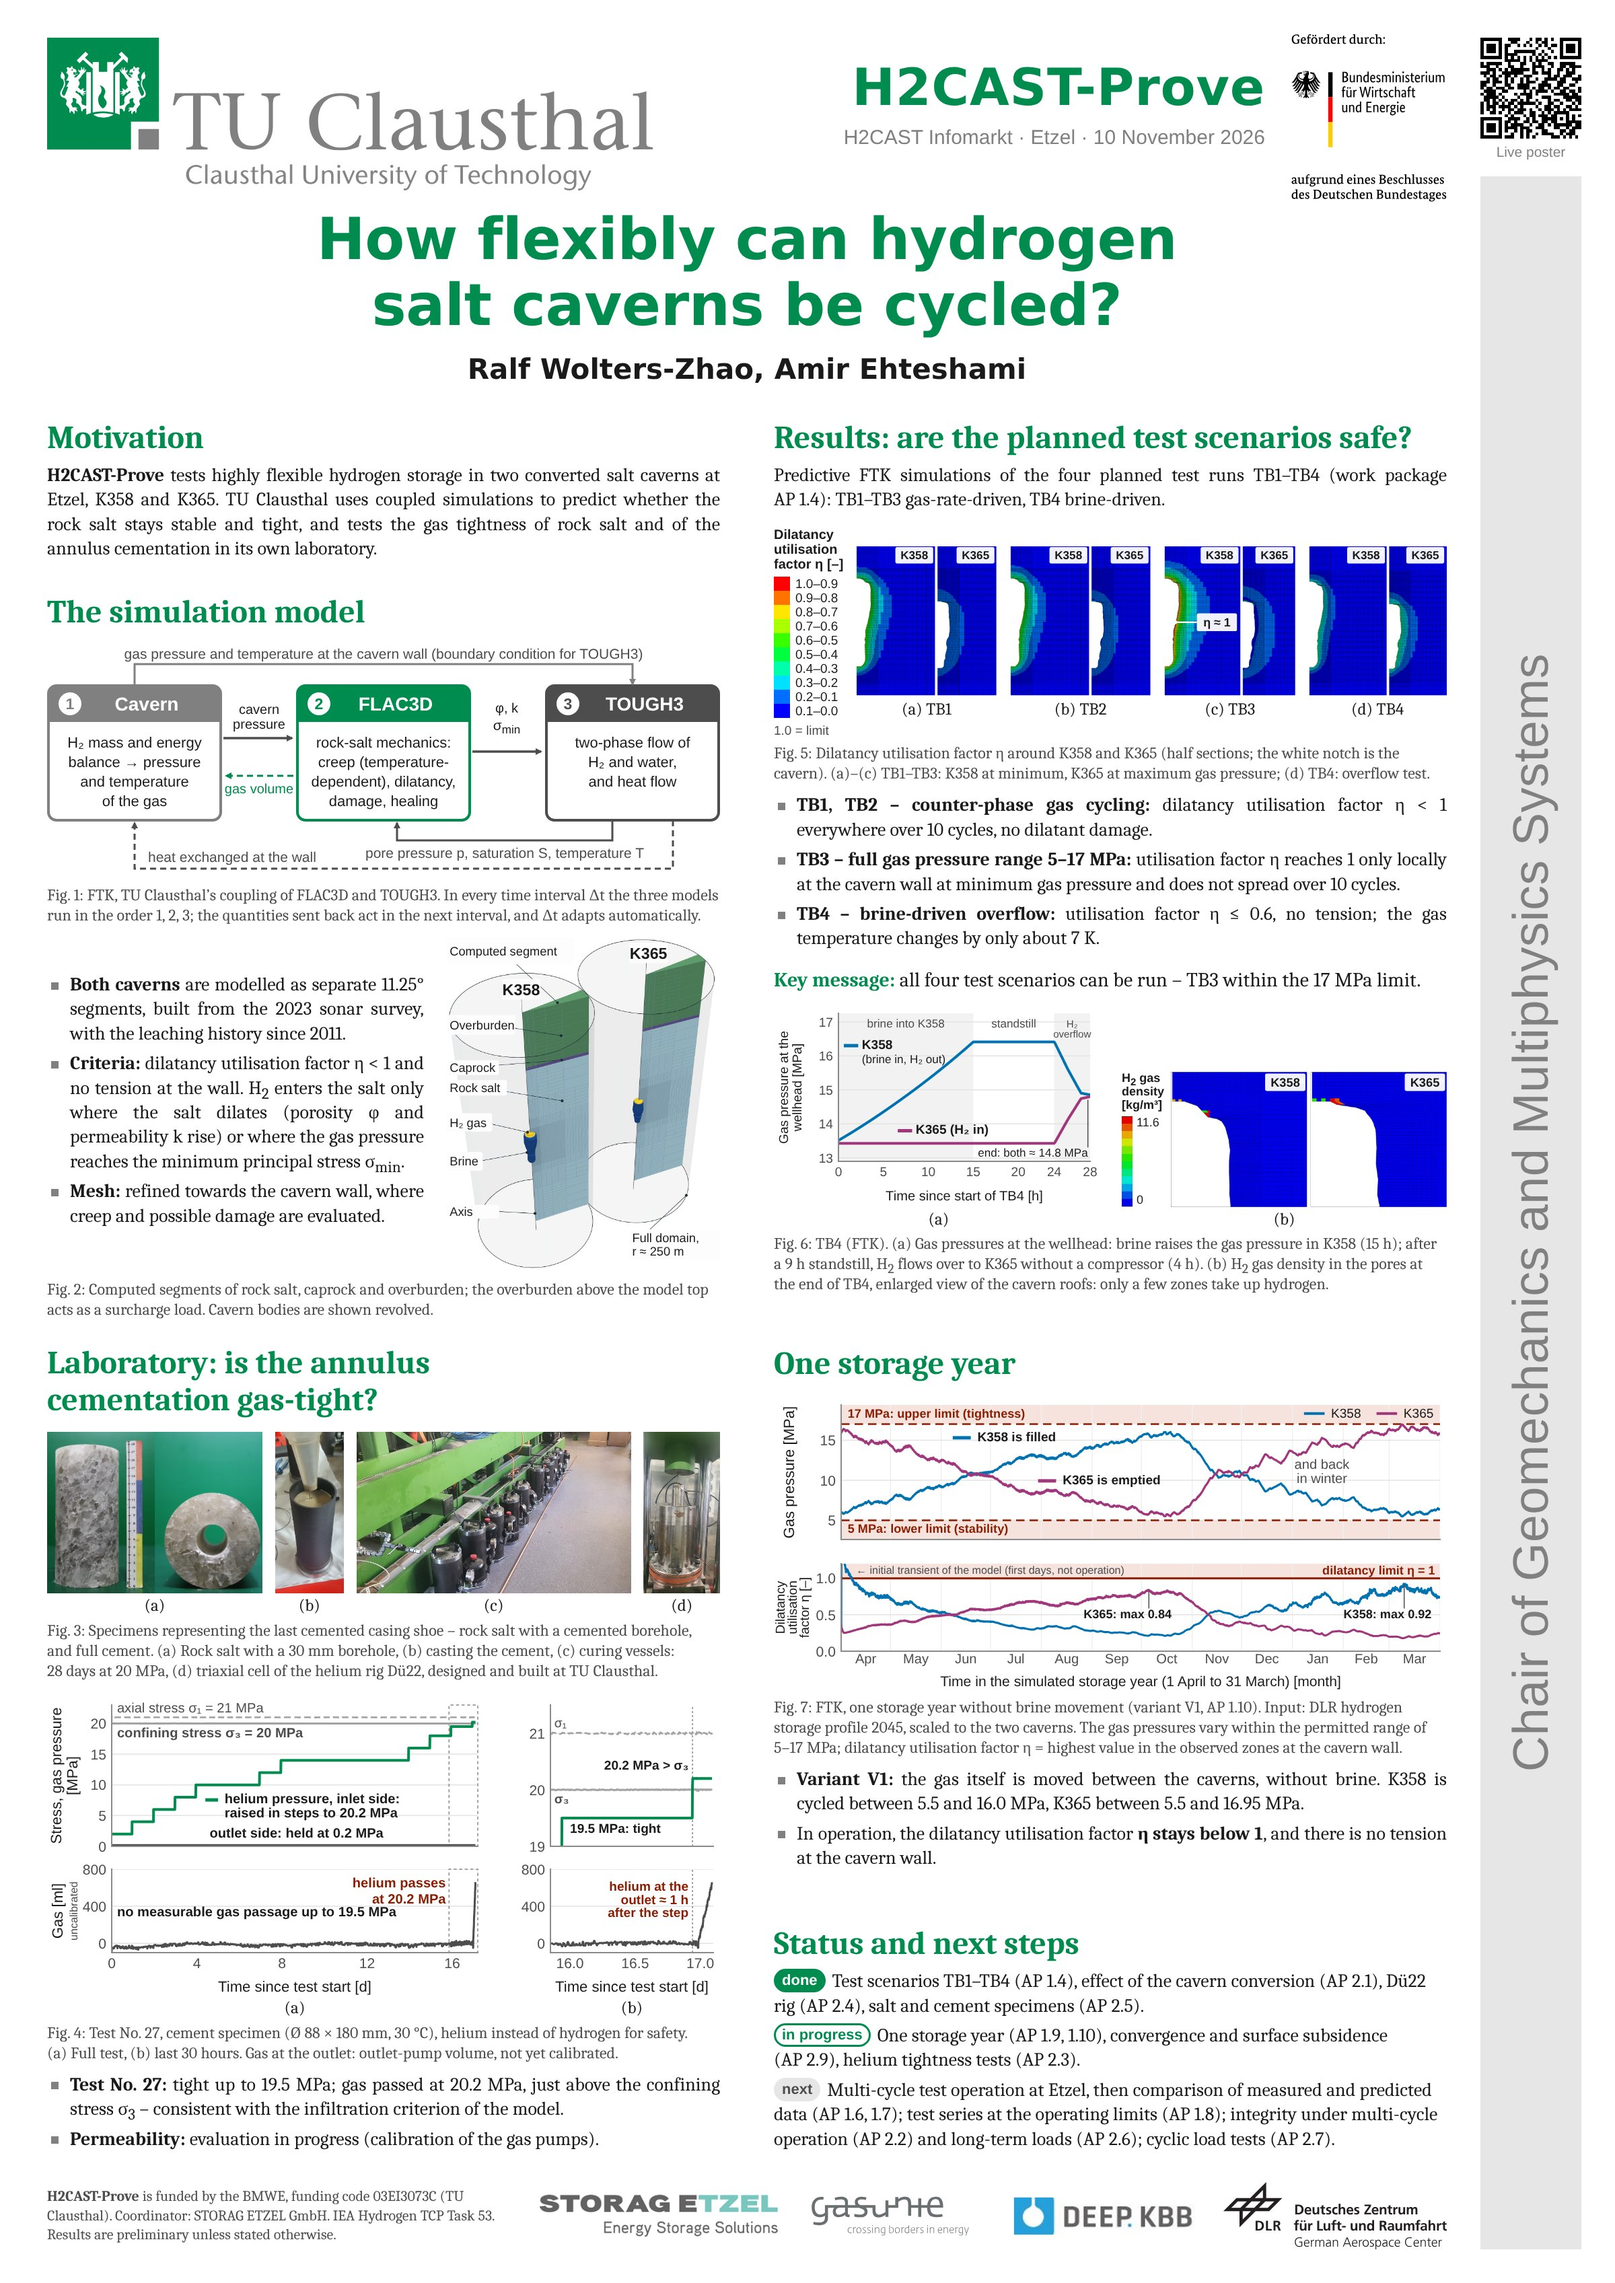
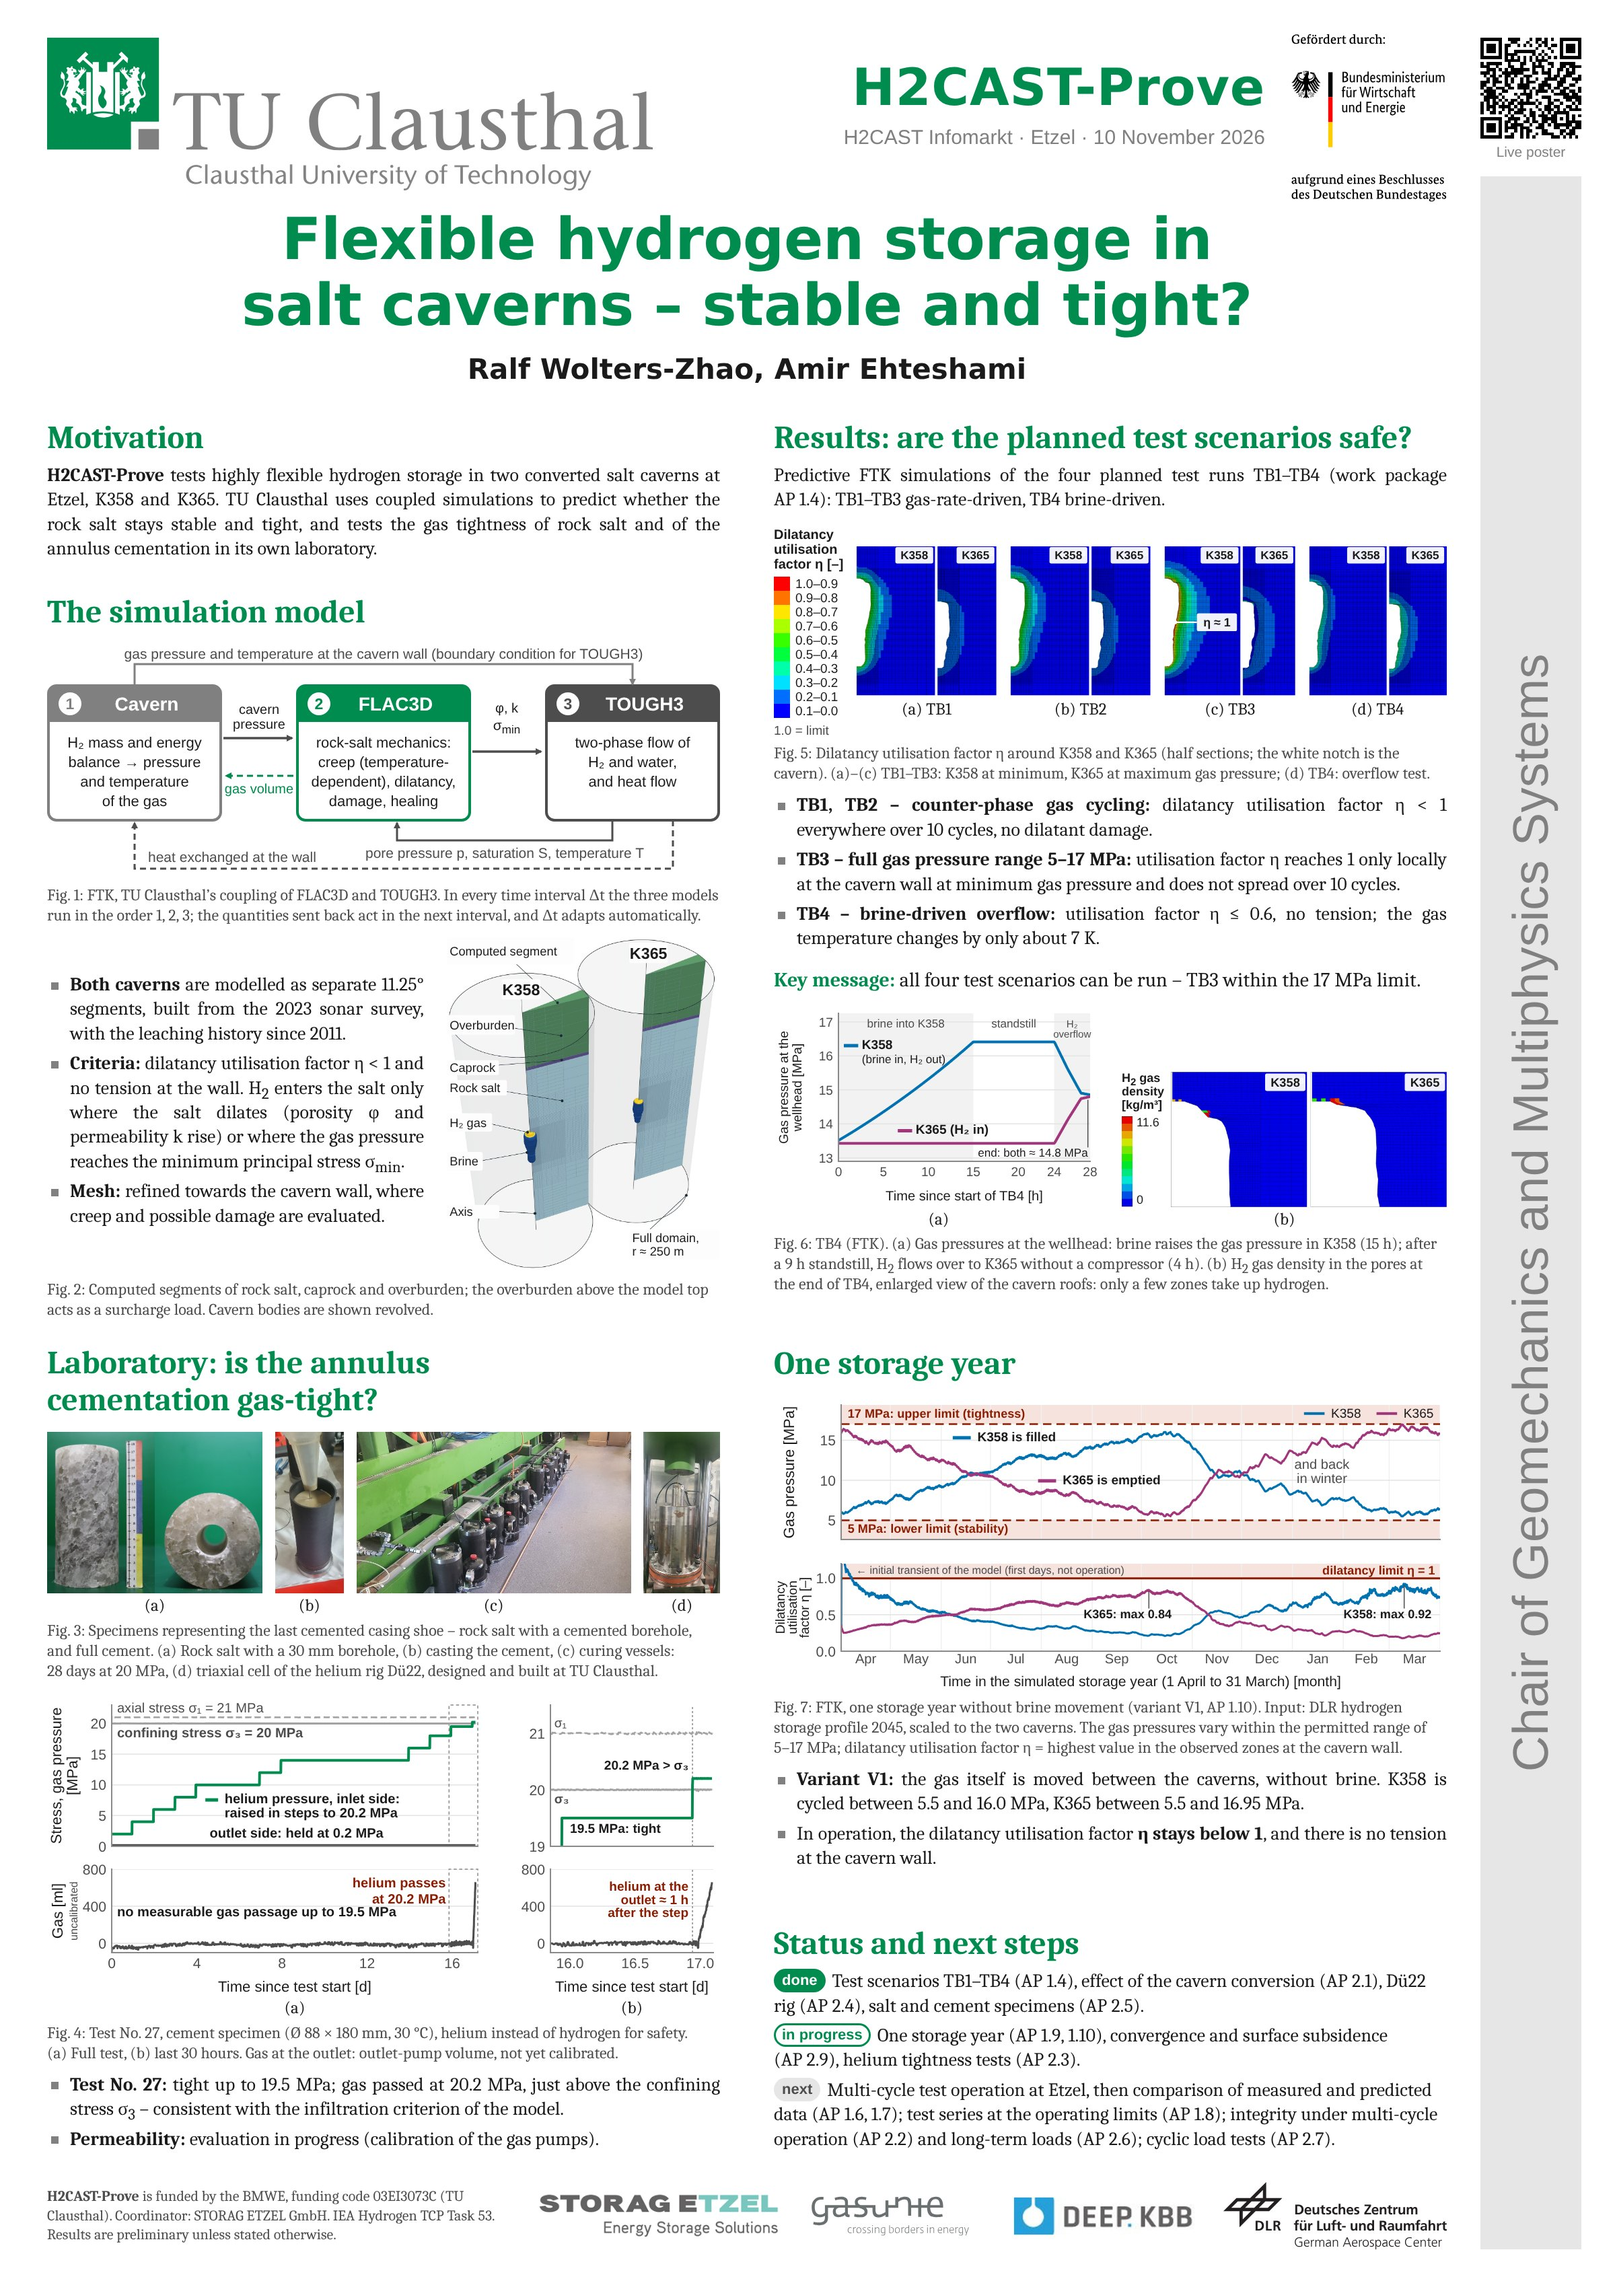
Poster title: "Flexible hydrogen storage in salt caverns – stable and tight?"
New main title chosen by the authors, replacing "How flexibly can hydrogen salt caverns
be cycled?" on the poster (with a non-breaking space so the dash stays with
"caverns"), in the page and PDF title, the poster alt text and both READMEs.

Claude-Session: https://claude.ai/code/session_01Ek1qUJkYEDE2LjHnQ7G2mW

Changed region(s): [[0.1562, 0.0937, 0.7812, 0.1562]]

diff --git a/poster/poster.html b/poster/poster.html
@@ -2,7 +2,7 @@
 <html lang="en">
 <head>
 <meta charset="utf-8">
-<title>H2CAST-Prove – How flexibly can hydrogen salt caverns be cycled? (TU Clausthal)</title>
+<title>H2CAST-Prove – Flexible hydrogen storage in salt caverns – stable and tight? (TU Clausthal)</title>
 <!--
   Source of ../poster.jpg. Render it with:  node poster/build.cjs
   The build script injects the data (T27, TB4P, YEAR) from ../index.html, writes ../poster.jpg and
@@ -114,7 +114,7 @@
 
   <div class="frame">
     <div class="titleblock">
-      <h1>How flexibly can hydrogen salt caverns be cycled?</h1>
+      <h1>Flexible hydrogen storage in salt caverns&nbsp;– stable and tight?</h1>
       <div class="authors">Ralf Wolters-Zhao, Amir Ehteshami</div>
     </div>
 

diff --git a/index.html b/index.html
@@ -87,7 +87,7 @@
 <h1 class="sr-only">H2CAST-Prove live poster – TU Clausthal</h1>
 <main>
   <div id="poster">
-    <img src="poster.jpg?v=fdd0836287" width="2400" height="3393" alt="Poster: How flexibly can hydrogen salt caverns be cycled? TU Clausthal in H2CAST-Prove.">
+    <img src="poster.jpg?v=b5efee752e" width="2400" height="3393" alt="Poster: Flexible hydrogen storage in salt caverns – stable and tight? TU Clausthal in H2CAST-Prove.">
   </div>
 </main>
 <section class="toc" id="contents" aria-labelledby="tocTitle">

diff --git a/poster_figures_2026-11/README.md b/poster_figures_2026-11/README.md
@@ -1,6 +1,6 @@
 # Poster figures – update November 2026
 
-New and corrected figures for the poster "How flexibly can hydrogen salt caverns be cycled?". Each figure is drawn at
+New and corrected figures for the poster "Flexible hydrogen storage in salt caverns – stable and tight?". Each figure is drawn at
 the size it has on the A0 poster (same width as the chart it replaces), with the poster colours (K358 blue, K365
 magenta) and fonts of about 20 pt. Every figure comes in three formats:
 

diff --git a/README.md b/README.md
@@ -1,6 +1,6 @@
 # H2CAST live poster – TU Clausthal
 
-Interactive version of the poster "How flexibly can hydrogen salt caverns be cycled?" (TU Clausthal, Chair of
+Interactive version of the poster "Flexible hydrogen storage in salt caverns – stable and tight?" (TU Clausthal, Chair of
 Geomechanics and Multiphysics Systems), shown at the H2CAST Infomarkt, Etzel, 10 November 2026.
 
 Live page: https://ehteshami-tuc.github.io/h2cast-live-poster/
